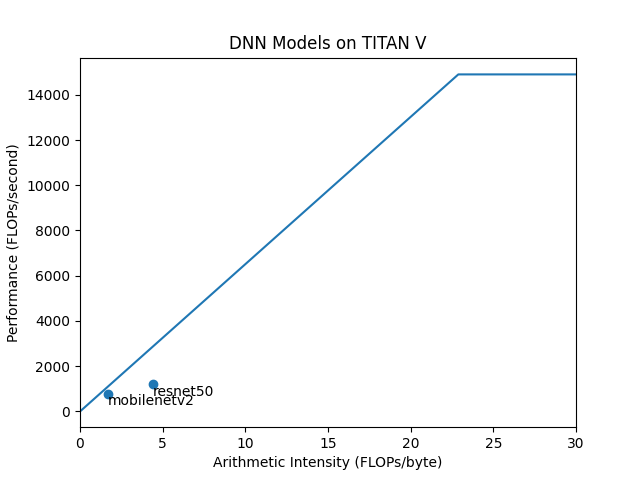
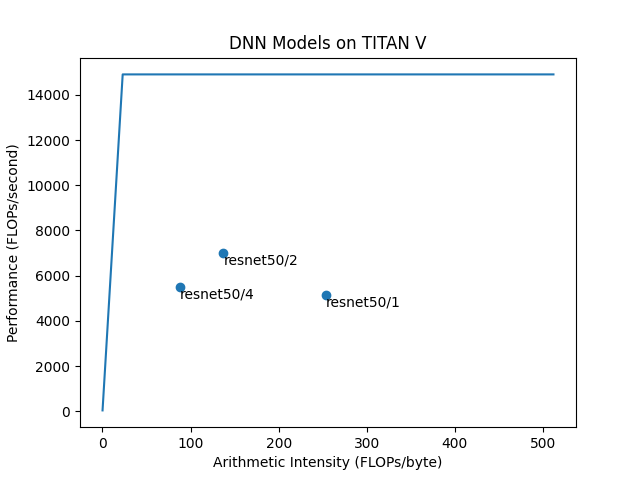
update roofline plot logic

diff --git a/parse_stats.py b/parse_stats.py
@@ -70,13 +70,13 @@ def roofline(filename):
     
     if True:
         # plot roofline
-        bw = 651.3
+        bw = 652.8
         max_flops = 14900
         xticks = [2.**i for i in range(-4, 10)]
         x = list(frange(min(xticks), max(xticks), 0.01))
         ax.plot(x, [min(bw*x, float(max_flops)) for x in x])
     
-    ax.set_xlim(0, 30)
+    # ax.set_xlim(0, 30)
     
     # save figure
     plt.savefig('roofline.png')
